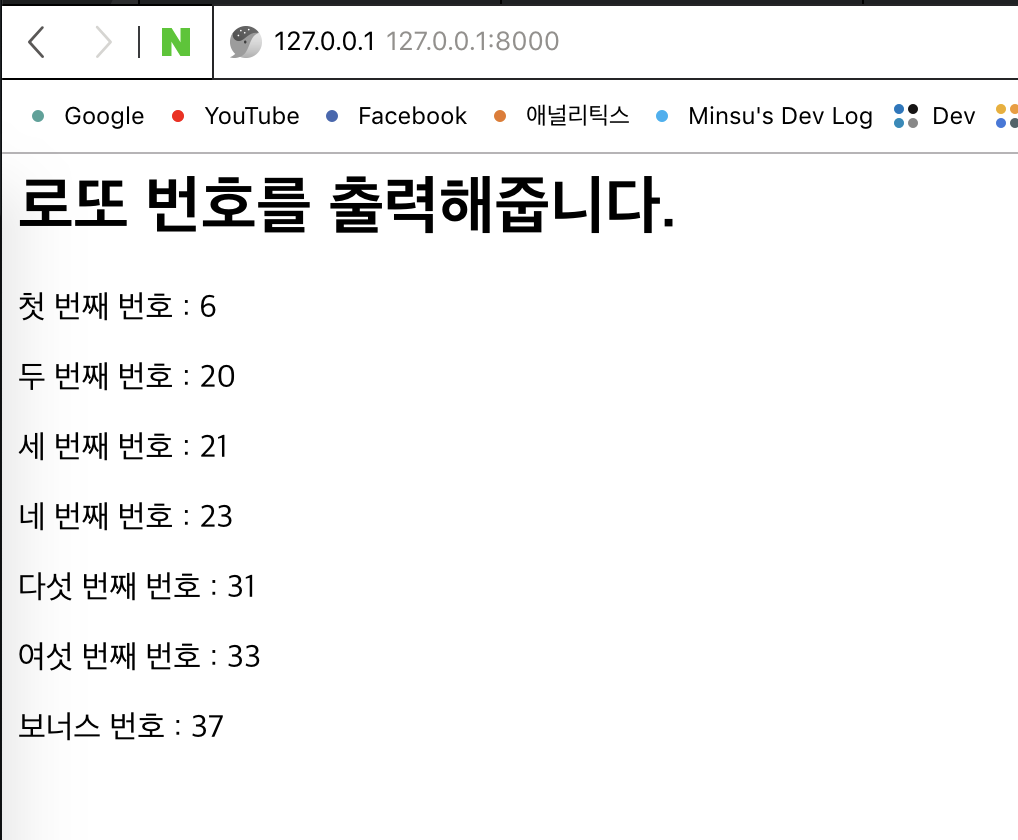
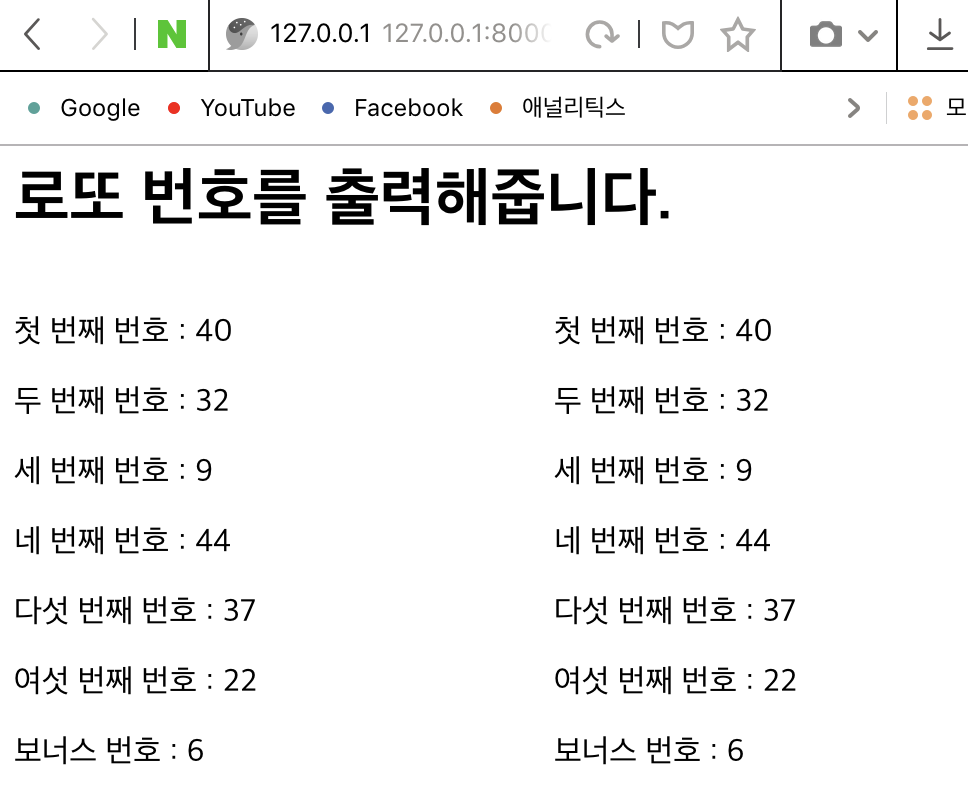
Fix secondproject lotto, using list in templates tag

diff --git a/2_secondproject/lotto/templates/home.html b/2_secondproject/lotto/templates/home.html
@@ -1,8 +1,23 @@
 <h1>로또 번호를 출력해줍니다.</h1>
-<p> 첫 번째 번호 : {{ first }} </p>
-<p> 두 번째 번호 : {{ second }} </p>
-<p> 세 번째 번호 : {{ third }} </p>
-<p> 네 번째 번호 : {{ fourth }} </p>
-<p> 다섯 번째 번호 : {{ fifth }} </p>
-<p> 여섯 번째 번호 : {{ sixth }} </p>
-<p> 보너스 번호 : {{ bonus }} </p>
+
+<div style="display: flex">
+    <div style="flex:1">
+        <p> 첫 번째 번호 : {{ first }} </p>
+        <p> 두 번째 번호 : {{ second }} </p>
+        <p> 세 번째 번호 : {{ third }} </p>
+        <p> 네 번째 번호 : {{ fourth }} </p>
+        <p> 다섯 번째 번호 : {{ fifth }} </p>
+        <p> 여섯 번째 번호 : {{ sixth }} </p>
+        <p> 보너스 번호 : {{ bonus }} </p>
+    </div>
+
+    <div style="flex:1">
+        <p> 첫 번째 번호 : {{ lotto.0 }} </p>
+        <p> 두 번째 번호 : {{ lotto.1 }} </p>
+        <p> 세 번째 번호 : {{ lotto.2 }} </p>
+        <p> 네 번째 번호 : {{ lotto.3 }} </p>
+        <p> 다섯 번째 번호 : {{ lotto.4 }} </p>
+        <p> 여섯 번째 번호 : {{ lotto.5 }} </p>
+        <p> 보너스 번호 : {{ lotto.6 }} </p>
+    </div>
+</div>

diff --git a/2_secondproject/lotto/views.py b/2_secondproject/lotto/views.py
@@ -21,4 +21,5 @@ def home(request):
         "fifth": lotto[4],
         "sixth": lotto[5],
         "bonus": lotto[6],
+        "lotto": lotto,
     })
